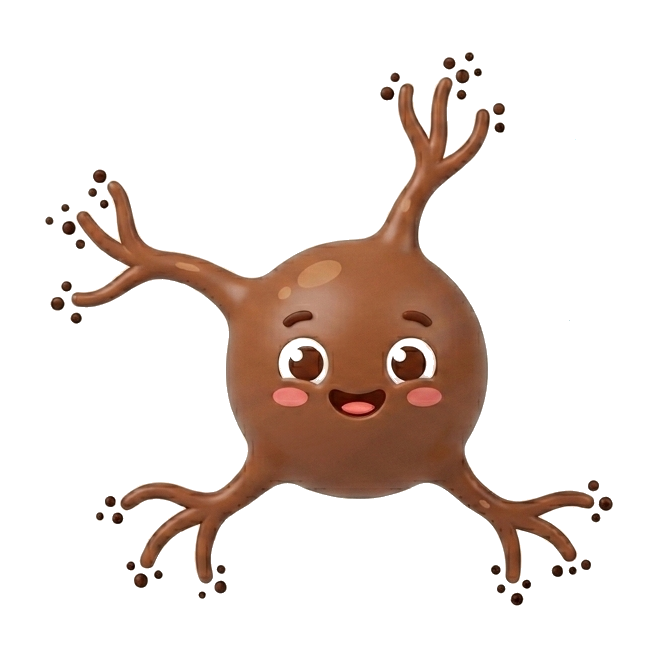
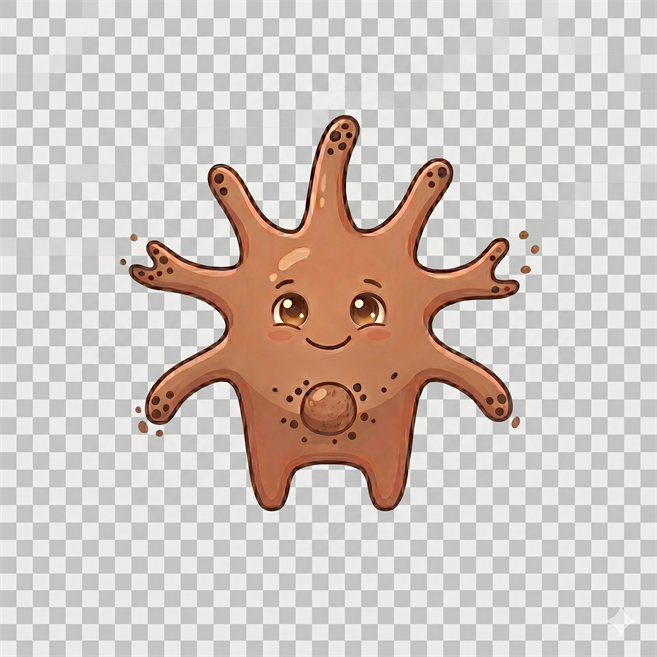
El chatbot vuelve a ser Mel (DC_BUILD 56 / sw v56)
- Renombradas las 20 referencias del asistente Kera -> Mel (FAB, saludo,
  cabecera del chat, respuestas, indice de busqueda, reportes mel_miss).
- Avatar: apunta a mel-avatar.png (nuevo avatar de melanocito). Se redimensiono
  de 2048x2048 / 5.8 MB a 657x657 / 677 KB (como el de Kera) conservando la
  transparencia, para no cargar 5.8 MB en cada apertura.

diff --git a/DermaCand_app.html b/DermaCand_app.html
@@ -766,15 +766,15 @@ body{font-size:13px}
 </style>
 <button id="toTop" onclick="bttGo()" aria-label="Volver al inicio" title="Volver al inicio"><svg viewBox="0 0 24 24" fill="none" stroke="currentColor" stroke-width="2.4" stroke-linecap="round" stroke-linejoin="round"><path d="M12 19V5"/><path d="m5 12 7-7 7 7"/></svg></button>
 <div id="eriWrap">
-<button id="chatFab" class="pulse" onclick="toggleChat()" aria-label="Kera" title="Kera">
-<img src="kera-avatar.png" alt="Kera">
+<button id="chatFab" class="pulse" onclick="toggleChat()" aria-label="Mel" title="Mel">
+<img src="mel-avatar.png" alt="Mel">
 </button>
 <button id="eriClose" onclick="eriHide(event)" aria-label="Ocultar asistente" title="Ocultar asistente">✕</button>
 </div>
-<div id="eriGreet" class="eri-greet" onclick="openChat()">¡Hola! Soy <b>Kera</b> 🔬<br>Pregúntame lo que necesites.</div>
+<div id="eriGreet" class="eri-greet" onclick="openChat()">¡Hola! Soy <b>Mel</b> 🔬<br>Pregúntame lo que necesites.</div>
 <div id="chatPanel" aria-hidden="true">
 <div class="chat-head">
-<div class="ttl"><img src="kera-avatar.png" alt="Kera"><span class="ttl-tx"><span class="ttl-name">Kera</span><span class="ttl-sub">Asistente virtual</span></span></div>
+<div class="ttl"><img src="mel-avatar.png" alt="Mel"><span class="ttl-tx"><span class="ttl-name">Mel</span><span class="ttl-sub">Asistente virtual</span></span></div>
 <button onclick="closeChat()" aria-label="Cerrar">✕</button>
 </div>
 <div id="chat_log" class="chat-log"></div>
@@ -8471,12 +8471,12 @@ function chatRefsHTML(results){
   return `<div style="margin-top:11px;padding-top:9px;border-top:1px solid var(--bd)"><div style="font-size:12px;font-weight:600;color:var(--c2);margin-bottom:5px">📚 Referencias bibliográficas</div><ul style="margin:0;padding-left:16px;font-size:11px;color:var(--mut);line-height:1.45;font-style:italic">${refs.map(r=>`<li style="margin-bottom:3px">${chatEsc(r)}</li>`).join('')}</ul></div>`;
 }
 const CHAT_INTROS=['Claro, esto es lo que encontré 👇','Por supuesto, aquí lo tienes:','Encantado, mira lo que encontré sobre esto:','Genial, esto es lo que hay en la app:'];
-function chatLead(){if(!_chatGreeted){_chatGreeted=true;return '¡Hola! 👋 Soy <strong>Kera</strong>, tu asistente de DermaCand. Con gusto te ayudo — esto es lo que encontré:';}return CHAT_INTROS[Math.floor(Math.random()*CHAT_INTROS.length)];}
+function chatLead(){if(!_chatGreeted){_chatGreeted=true;return '¡Hola! 👋 Soy <strong>Mel</strong>, tu asistente de DermaCand. Con gusto te ayudo — esto es lo que encontré:';}return CHAT_INTROS[Math.floor(Math.random()*CHAT_INTROS.length)];}
 // Lead NEUTRO para preguntas de actitud terapéutica / caso / diagnóstico: Eri nunca emite un juicio ("claro/por supuesto" da por hecho un "sí"); solo remite a la fuente.
 const CHAT_INTROS_NEUTRAL=['Lo siento, no puedo ayudarte con la decisión clínica de un caso, pero aquí tienes una referencia que puede servirte de ayuda 👇','No me corresponde decidir el manejo del paciente, pero te dejo la referencia que puede orientarte:','Esa decisión es del clínico según cada caso — aun así, aquí tienes una referencia que puede ayudarte 👇','Disculpa, eso no puedo decidirlo yo, pero con gusto te abro la fuente que puede servirte de ayuda:'];
-function chatLeadNeutral(){if(!_chatGreeted){_chatGreeted=true;return '¡Hola! 👋 Soy <strong>Kera</strong>. Lo siento, no puedo ayudarte con la decisión clínica de un caso concreto, pero con gusto te dejo la referencia que puede servirte de ayuda:';}return CHAT_INTROS_NEUTRAL[Math.floor(Math.random()*CHAT_INTROS_NEUTRAL.length)];}
+function chatLeadNeutral(){if(!_chatGreeted){_chatGreeted=true;return '¡Hola! 👋 Soy <strong>Mel</strong>. Lo siento, no puedo ayudarte con la decisión clínica de un caso concreto, pero con gusto te dejo la referencia que puede servirte de ayuda:';}return CHAT_INTROS_NEUTRAL[Math.floor(Math.random()*CHAT_INTROS_NEUTRAL.length)];}
 function chatAnswerHTML(query,results,neutral){
-  if(!results.length){const hi=_chatGreeted?'':'¡Hola! 👋 Soy <strong>Kera</strong>. ';_chatGreeted=true;return `<div style="${CHAT_BOT}">${hi}No he encontrado nada sobre <em>"${chatEsc(query)}"</em> en el contenido de la app 🤔. Prueba con el nombre del fármaco, el esquema, una sección o «teléfono de …».</div>`;}
+  if(!results.length){const hi=_chatGreeted?'':'¡Hola! 👋 Soy <strong>Mel</strong>. ';_chatGreeted=true;return `<div style="${CHAT_BOT}">${hi}No he encontrado nada sobre <em>"${chatEsc(query)}"</em> en el contenido de la app 🤔. Prueba con el nombre del fármaco, el esquema, una sección o «teléfono de …».</div>`;}
   let h=`<div style="${CHAT_BOT}"><div style="margin-bottom:9px;font-size:13.5px;color:var(--txt)">${neutral?chatLeadNeutral():chatLead()}</div><div style="display:flex;flex-direction:column;gap:9px">`;
   results.forEach(doc=>{if(doc.type==='phone')h+=chatPhoneCard(doc);else if(doc.type==='pdf')h+=chatPdfCard(doc,query);else h+=chatToolCard(doc);});
   h+='</div>'+chatRefsHTML(results);
@@ -8503,7 +8503,7 @@ function chatSmallTalk(q){
   const n=chatNorm(q);if(!n)return null;
   // Identidad y ayuda (se comprueba antes de filtrar, porque lleva palabras "reales")
   if(/(que (puedes|sabes) hacer|que haces|para que sirves|quien eres|que eres|como te llamas|como funcionas|en que (me )?ayudas?|que me ofreces|^ayuda$|^help$|^funciones$|^menu$)/.test(n)){
-    return chatBotBox('Soy <strong>Kera</strong> 🔬, tu asistente de DermaCand. Puedo ayudarte a encontrar:'+
+    return chatBotBox('Soy <strong>Mel</strong> 🔬, tu asistente de DermaCand. Puedo ayudarte a encontrar:'+
       '<ul style="margin:7px 0 2px;padding-left:18px;line-height:1.65">'+
       '<li><strong>Dosis y pautas</strong> — p. ej. «dosis de isotretinoína» o «metotrexato en psoriasis»</li>'+
       '<li><strong>Teléfonos y extensiones</strong> internas — p. ej. «teléfono de dermatología»</li>'+
@@ -8532,7 +8532,7 @@ function chatSmallTalk(q){
     return chatBotBox('¡Hasta luego! 👋 Cuando quieras volver a consultar algo, aquí estaré.');
   // Saludo real → preséntate; si no es un saludo, no repitas la presentación
   if(/(hola|holi|holaa|holaaa|ola|olis|buenas|hey|ey|hello|hi|holis|wenas|saludos|buenos dias|buenas tardes|buenas noches|que tal|como estas|como te va|como vas|^eri$|^eri )/.test(n))
-    return chatBotBox('¡Hola! Soy <strong>Kera</strong> 🔬<br><br>Tu asistente de DermaCand. Puedo buscarte dosis, esquemas, teléfonos o el contenido de las guías clínicas.<br><br>¿Qué necesitas?');
+    return chatBotBox('¡Hola! Soy <strong>Mel</strong> 🔬<br><br>Tu asistente de DermaCand. Puedo buscarte dosis, esquemas, teléfonos o el contenido de las guías clínicas.<br><br>¿Qué necesitas?');
   // Mensaje vago que no es saludo: responde con coherencia (no con el saludo)
   return chatBotBox('Mmm, no estoy segura de haberte entendido 🤔 Prueba a escribirme un <strong>fármaco</strong>, un <strong>esquema</strong>, una <strong>sección</strong> o un <strong>tema clínico</strong> concreto y lo busco enseguida.');
 }
@@ -8588,7 +8588,7 @@ const CASE_FILLER=new Set(['tengo','hago','haria','haga','debo','debe','deberia'
 function chatCaseAnchors(q){let toks=[];try{toks=chatTokens(q);}catch(e){toks=[];}return toks.filter(t=>t&&!CHAT_STOP.has(t)&&!CHAT_GENERIC.has(t)&&!CASE_FILLER.has(t));}
 function chatCaseNoAnchor(q){const nq=chatNorm(q);if(!CASE_RX.test(nq))return false;return chatCaseAnchors(q).length===0;}
 function chatNoPrecise(query){
-  const hi=_chatGreeted?'':'¡Hola! 👋 Soy <strong>Kera</strong>. ';_chatGreeted=true;
+  const hi=_chatGreeted?'':'¡Hola! 👋 Soy <strong>Mel</strong>. ';_chatGreeted=true;
   const nq=chatNorm(query);
   const near=(_chatNear||[]).filter(d=>d&&d.title);
   let sugg='';
@@ -8630,7 +8630,7 @@ function chatBridgeIntent(q){
 const THERAPY_RX=/\b(puedo|podria|podriamos|debo|debe|debemos|deberia|deberiamos|podemos|conviene|procede|toca|hay que|se puede)\b[^?]{0,40}\b(transfund\w*|trasfund\w*|trasfu\w*|anticoagul\w*|dar(le|les)?|administr\w*|pautar|poner|ponerle|iniciar|empezar|comenzar|suspender|retirar|parar|tratar|profilax\w*|premedic\w*)\b|\b(esta|estaria) indicad|indicacion de (transfu|trasfu|anticoagul|tratar|dar|poner|profilax)|\b(transfundo|trasfundo|le doy|le pongo|le pauto|le administro)\b|\b(tratamiento|tratar|diagnostico|diagnosticar|que actitud|actitud a seguir|actitud terapeutica|conducta a seguir|que hago|que hacer)\b|como (lo |la |le )?(trato|tratar|manejo|manejar|trataria|manejaria)/;
 function chatIsTherapyQ(nq){return (THERAPY_RX.test(nq)||CASE_RX.test(nq))&&!PHONE_Q_RX.test(nq);}
 function chatIntent(q){return chatBridgeIntent(q);}
-// === Base de conocimiento de Kera (FAQ) ===
+// === Base de conocimiento de Mel (FAQ) ===
 // Respuestas breves a "qué es / cómo se puntúa X" para las escalas y herramientas de la app.
 // 'v' = vista a la que enlaza · 'rx' se prueba contra la consulta normalizada (sin tildes) ·
 // 'a' = respuesta HTML · 'neu' = tema de manejo/pronóstico → usa lead neutro.
@@ -8682,7 +8682,7 @@ function chatSend(preset){
 function chatInit(){
   const log=$('chat_log');if(!log)return;log.innerHTML='';_chatGreeted=true;
   _chatBase=chatBuildBase();
-  chatPushHTML(`<div style="${CHAT_BOT}">¡Hola! Soy <strong>Kera</strong> 🔬<br><br>Tu asistente de DermaCand. Puedo buscarte dosis, esquemas, teléfonos o el contenido de las guías clínicas.<br><br>¿Qué necesitas?</div>`);
+  chatPushHTML(`<div style="${CHAT_BOT}">¡Hola! Soy <strong>Mel</strong> 🔬<br><br>Tu asistente de DermaCand. Puedo buscarte dosis, esquemas, teléfonos o el contenido de las guías clínicas.<br><br>¿Qué necesitas?</div>`);
   if(!_chatIndexing){
     _chatIndexing=true;const st=$('chat_status');if(st)st.textContent='Preparando guías clínicas…';
     chatIndexGuides((d,t)=>{const s=$('chat_status');if(s)s.textContent=`Indexando guías clínicas… ${d}/${t}`;}).then(()=>{_chatIndexing=false;const s=$('chat_status');if(s)s.textContent=_chatPdfDocs.length?('✓ '+_chatPdfDocs.length+' guías clínicas indexadas'):'';}).catch(()=>{_chatIndexing=false;const s=$('chat_status');if(s)s.textContent='';});
@@ -8721,7 +8721,7 @@ function closeIosInstall(){const m=$('iosInstall');if(m)m.hidden=true;}
 function hpInitInstall(){if(hpStandalone())return;if(window._hpBIP)hpShowInstall();else if(_hpIOS)hpShowInstall('ios');}
 function toggleChat(){const w=$('eriWrap');if(w&&w._suppressClick)return;const p=$('chatPanel');if(p&&p.classList.contains('open'))closeChat();else openChat();}
 function eriIsHidden(){try{return localStorage.getItem('hp_eriHidden')==='1';}catch(_){return false;}}
-function eriHide(e){if(e){e.stopPropagation();e.preventDefault();}const w=$('eriWrap');if(w)w.hidden=true;const g=$('eriGreet');if(g)g.classList.remove('show');closeChat();try{localStorage.setItem('hp_eriHidden','1');}catch(_){}if(typeof toast==='function')toast('Asistente oculto · ábrelo de nuevo desde 🔍 buscando «Kera»');}
+function eriHide(e){if(e){e.stopPropagation();e.preventDefault();}const w=$('eriWrap');if(w)w.hidden=true;const g=$('eriGreet');if(g)g.classList.remove('show');closeChat();try{localStorage.setItem('hp_eriHidden','1');}catch(_){}if(typeof toast==='function')toast('Asistente oculto · ábrelo de nuevo desde 🔍 buscando «Mel»');}
 function eriShow(open){const w=$('eriWrap');if(w){w.hidden=false;w._manual=false;}try{localStorage.removeItem('hp_eriHidden');}catch(_){}if(typeof eriAnchor==='function')eriAnchor();const f=$('chatFab');if(f)f.classList.add('pulse');if(open!==false)setTimeout(openChat,60);}
 function eriClampApply(w,l,t){const pad=6,bw=w.offsetWidth||64,bh=w.offsetHeight||64;const maxL=window.innerWidth-bw-pad,maxT=window.innerHeight-bh-pad;l=Math.max(pad,Math.min(l,maxL));t=Math.max(pad,Math.min(t,maxT));w.style.left=l+'px';w.style.top=t+'px';w.style.right='auto';w.style.bottom='auto';}
 function eriRestorePos(){const w=$('eriWrap');if(!w)return;let raw;try{raw=localStorage.getItem('hp_eriPos');}catch(_){}if(!raw)return;try{const p=JSON.parse(raw);if(p&&typeof p.l==='number')eriClampApply(w,p.l,p.t);}catch(_){}}
@@ -9849,14 +9849,14 @@ renderCmd();
 setTimeout(()=>inp.focus(),50);
 }
 function closeCmd(){$('cmd_bg')?.classList.remove('show')}
-// índice global: apartados del menú + teléfonos + Kera (cacheado)
+// índice global: apartados del menú + teléfonos + Mel (cacheado)
 function cmdBuildIndex(){
 const idx=[];
 try{MENU.forEach(sec=>sec.items.forEach(it=>{if(it.sub)return;
   idx.push({kind:'tool',id:it.id,name:it.name,sec:sec.h,_new:it.new,adm:!!it.admin,nf:chatNorm(it.name),nb:chatNorm(it.name+' '+(it.kw||'')+' '+sec.h)});}));}catch(e){}
 try{HOSP_DIR.forEach(sec=>{const sn=sec[0];(sec[1]||[]).forEach(e=>{const nm=(e[0]||'').replace(/\n/g,' ');
   idx.push({kind:'phone',name:nm,sec:sn,ext:e[3],phone:e[2],loc:e[1],nf:chatNorm(nm),nb:chatNorm(sn+' '+nm+' '+(e[1]||'')+' '+(e[3]||''))});});});}catch(e){}
-idx.push({kind:'eri',id:'__eri',name:'Asistente Kera',sec:'Asistente',nf:chatNorm('asistente mel'),nb:chatNorm('mel chat asistente ayuda preguntar bot dermatologia melanocito piel')});
+idx.push({kind:'eri',id:'__eri',name:'Asistente Mel',sec:'Asistente',nf:chatNorm('asistente mel'),nb:chatNorm('mel chat asistente ayuda preguntar bot dermatologia melanocito piel')});
 return idx;
 }
 function cmdScore(it,qtokens,qraw){
@@ -10063,7 +10063,7 @@ if(document.readyState!=='loading')init();
   // descarga limpia queda SOLO para la actualización manual, bajo control del usuario, para no
   // dejar nunca la app inservible sin conexión.
   // DC_BUILD debe ir SIEMPRE igual que la versión del CACHE en sw.js (dermacand-vN).
-  var DC_BUILD = 55;
+  var DC_BUILD = 56;
   async function hpVersionGuard(){
     try{
       if(!navigator.onLine) return;
@@ -10677,12 +10677,12 @@ function repCard(r){
 let fecha='';
 try{ if(r.createdAt&&r.createdAt.seconds) fecha=new Date(r.createdAt.seconds*1000).toLocaleString('es-ES'); }catch(e){}
 const resuelto=r.estado==='resuelto';
-const tipoT=r.tipo==='auto'?'⚙ Error técnico (automático)':r.tipo==='mel_miss'?'🔎 Kera sin respuesta':'💬 Reporte de usuario';
+const tipoT=r.tipo==='auto'?'⚙ Error técnico (automático)':r.tipo==='mel_miss'?'🔎 Mel sin respuesta':'💬 Reporte de usuario';
 const badge=resuelto?'<span style="color:#1a7f37;font-weight:600">✔ resuelto</span>':'<span style="color:#b8860b;font-weight:600">⏳ nuevo</span>';
 let h='<div class="team-card"><h3 style="display:flex;justify-content:space-between;gap:8px;align-items:center"><span style="font-size:14px">'+tipoT+'</span>'+badge+'</h3>';
 h+='<div style="font-size:13px;line-height:1.6;white-space:pre-wrap;word-break:break-word;margin:4px 0">'+_hpEsc(r.texto||'')+'</div>';
 h+='<div style="font-size:11.5px;color:var(--mut);line-height:1.6">';
-if(r.melLastQ) h+='<div><strong>Última consulta a Kera:</strong> '+_hpEsc(''+r.melLastQ)+'</div>';
+if(r.melLastQ) h+='<div><strong>Última consulta a Mel:</strong> '+_hpEsc(''+r.melLastQ)+'</div>';
 if(r.email) h+='<div><strong>De:</strong> '+_hpEsc(r.email)+'</div>';
 if(r.vista) h+='<div><strong>Sección:</strong> '+_hpEsc(''+r.vista)+'</div>';
 if(r.build!=null) h+='<div><strong>Versión:</strong> '+_hpEsc(''+r.build)+(r.online===false?' · sin conexión':'')+'</div>';
@@ -10790,7 +10790,7 @@ try{
   catch(e){ fs = getFirestore(fbApp); }  // Firestore (índice de guías/roles/cuentas/reportes)
 }catch(e){ console.warn('[dc] Firebase init', e&&e.message); }
 
-// ── Notificaciones push (FCM) para ADMINISTRADORES (Kera/DermaCand) ──
+// ── Notificaciones push (FCM) para ADMINISTRADORES (Mel/DermaCand) ──
 // NO-BRICKING: solo se activa si hay clave VAPID pública real. Con el placeholder
 // 'PEGA_...' DC_PUSH_READY es false y NUNCA se llama a getMessaging/getToken.
 // Generar la clave en: Consola Firebase (proyecto dermacand2026) → Configuración del
@@ -11658,14 +11658,14 @@ window.hpTogglePw=function(){ const inp=document.getElementById('hp_pw'); inp.ty
       else{queueReport(meta);}
     }catch(e){}
   }
-  // Registra las consultas que Kera no supo responder (tipo 'mel_miss'), para saber qué FAQ añadir.
+  // Registra las consultas que Mel no supo responder (tipo 'mel_miss'), para saber qué FAQ añadir.
   var _missSeen={},_missCount=0;
   window.hpLogMelMiss=function(q){
     try{
       q=(q||'').toString().trim();if(q.length<3)return;
       if(_missCount>=15)return;
       var key=q.toLowerCase().slice(0,80);if(_missSeen[key])return;_missSeen[key]=1;_missCount++;
-      var meta={texto:'🔎 Kera no encontró respuesta para: «'+q.slice(0,200)+'»',tipo:'mel_miss',vista:curViewName(),vistaId:curView(),build:curBuild(),online:navigator.onLine,ua:navigator.userAgent,ts:Date.now()};
+      var meta={texto:'🔎 Mel no encontró respuesta para: «'+q.slice(0,200)+'»',tipo:'mel_miss',vista:curViewName(),vistaId:curView(),build:curBuild(),online:navigator.onLine,ua:navigator.userAgent,ts:Date.now()};
       if(navigator.onLine&&window.hpSubmitReport){window.hpSubmitReport(meta.texto,meta).catch(function(){queueReport(meta);});}
       else{queueReport(meta);}
     }catch(e){}

diff --git a/sw.js b/sw.js
@@ -3,7 +3,7 @@
 // Estática (CSS/JS/imágenes/fuentes de PDF.js/PDFs locales): cache-first.
 // Versión: bump para forzar actualización de los clientes. DEBE coincidir con DC_BUILD en la app.
 
-const CACHE = 'dermacand-v55';
+const CACHE = 'dermacand-v56';
 // El recurso crítico es DermaCand_app.html (app autocontenida). El resto son auxiliares.
 // pdf.min.js + worker se auto-alojan y se precachean para que el visor de PDF funcione sin conexión.
 const APP_SHELL = ['/DermaCand_app.html', '/manifest.json', '/', '/index.html', '/pdf.min.js', '/pdf.worker.min.js'];
